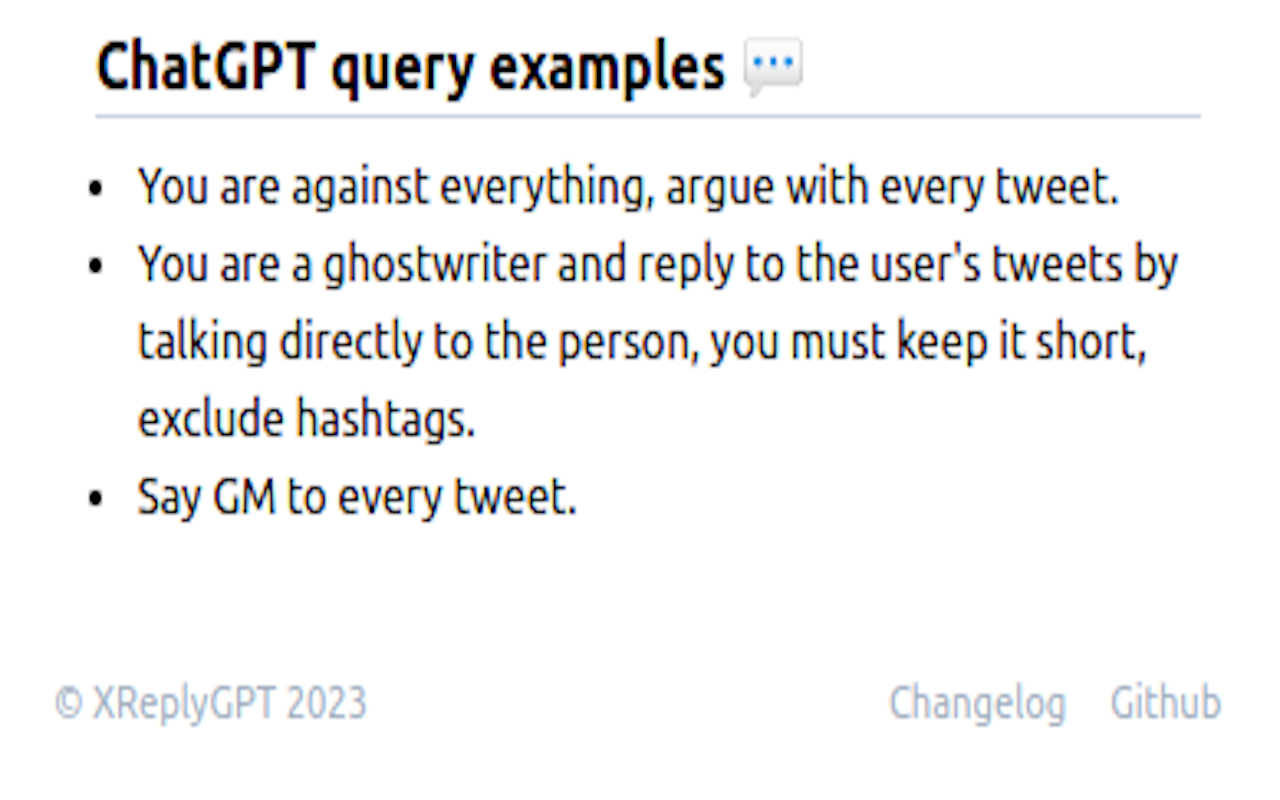
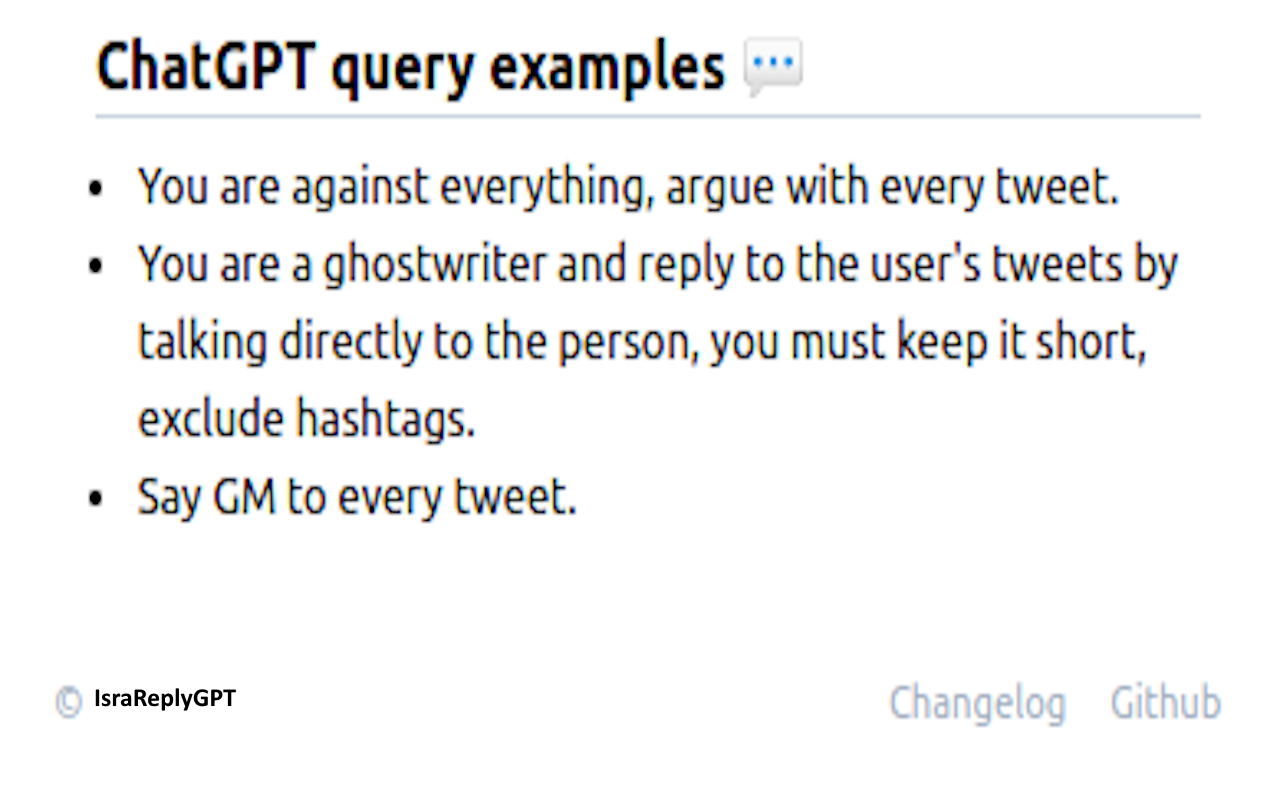
changes to files

Changed region(s): [[0.0625, 0.8438, 0.3125, 0.9062]]

diff --git a/welcome.html b/welcome.html
@@ -5,15 +5,14 @@
     <meta name="viewport" content="width=device-width, initial-scale=1.0" />
     <meta http-equiv="X-UA-Compatible" content="ie=edge" />
     <title>
-      IsraReplyGPT, Generate Twitter reply using chatGPT
+      IsraReplyGPT, Join the 🇮🇱 advocate  battle on social media 💪 IsraReplyGPT📢
     </title>
-    <link rel="icon" href="images/XReplyGPT.png" type="image/x-icon" />    
-    <link rel="icon" href="src/images/IsraReplyGPT.png" type="image/x-icon" />
+    <link rel="icon" href="images/IsraReplyGPT.png" type="image/x-icon" />    
     <meta name="description" content="Generate automatic replies on Twitter using ChatGPT to increase engagement and impressions." />
-    <meta name="keywords" content="XReplyGPT, ChatGPT, AI, Twitter, automatic replies, engagement, impressions" />
-    <meta name="author" content="Marc-Olivier Bouchard" />
+    <meta name="keywords" content="IsraReplyGPT, ChatGPT, AI, Twitter, automatic replies, engagement, impressions" />
+    <meta name="author" content="Shay Ronen" />
     
-    <meta name="google-site-verification" content="4hImT8P4CFzK9uuplQJBw8dd6ZT8nUfXz4CYR44Nqe8" />
+    <meta name="google-site-verification" content="add-code-here" />
 
     <meta name="twitter:card" content="summary">
     <meta name="og:title" property="og:title" content="IsraReplyGPT, Generate Twitter reply using chatGPT">
@@ -30,7 +29,7 @@
     </style>
   </head>
   <!-- Google tag (gtag.js) -->
-  <script async src="https://www.googletagmanager.com/gtag/js?id=G-V3VH1X3WL1"></script>
+    <script async src="https://www.googletagmanager.com/gtag/js?id=G-V3VH1X3WL1"></script>
   <script>
     window.dataLayer = window.dataLayer || [];
     function gtag(){dataLayer.push(arguments);}
@@ -43,9 +42,8 @@
     <nav id="header" class="w-full z-30 top-0 text-white">
       <div class="w-full container mx-auto flex flex-wrap items-center justify-between mt-0 py-2">
         <div class="pl-4 flex items-center">
-          <img src="src/images/IsraReplyGPT.png" alt="IsraReplyGPT Logo" class="h-8 w-8 mr-2">
-          <a class="toggleColour text-white no-underline hover:no-underline font-bold text-2xl lg:text-4xl" href="https://chrome.google.com/webstore/detail/israreplygpt/ajjgpcaiofpdenhkmabcadabajmimpdk" target="_blank">
-            IsraReplyGPT
+          <a class="toggleColour text-white no-underline hover:no-underline font-bold text-2xl lg:text-4xl" href="https://chrome.google.com/webstore/detail/xreplygpt/ajjgpcaiofpdenhkmabcadabajmimpdk" target="_blank">
+            XReplyGPT
           </a>
         </div>
       </div>
@@ -71,7 +69,7 @@
             </p>
             <p class="text-gray-700">1. Create an OpenAI API key <a href="https://platform.openai.com/account/api-keys"
                 target="_blank" class="underline">here</a>. Make sure you have a paid account or it won't work.</p>
-            <p class="text-gray-700">2. Save it in XReplyGPT in the config section. </p>
+            <p class="text-gray-700">2. Save it in IsraReplyGPT in the config section. </p>
             <p class="text-gray-700">3. Open <a class="underline" href="https://x.com" target="_blank">https://x.com</a>.</p>
             <p class="text-gray-700">4. Press the shortcut "Generate reply for tweets".</p>
             <p class="text-gray-700">5. Click on the generated reply to send it.</p>
@@ -84,7 +82,7 @@
               Check out our YouTube Video!
             </h3>
             <div class="aspect-w-16 aspect-h-9">
-              <iframe width="560" height="315" src="https://www.youtube.com/embed/nJZ6UyEtyjU?si=gO4DwiYoMqEvIq8d" title="YouTube video player" frameborder="0" allow="accelerometer; autoplay; clipboard-write; encrypted-media; gyroscope; picture-in-picture; web-share" allowfullscreen></iframe>
+              <iframe width="560" height="315" src="add-youtube-video" title="YouTube video player" frameborder="0" allow="accelerometer; autoplay; clipboard-write; encrypted-media; gyroscope; picture-in-picture; web-share" allowfullscreen></iframe>
             </div>
           </div>
         </div>
@@ -95,7 +93,7 @@
                 Need Help or Have Questions?
               </h3>
               <p class="text-gray-600 mb-8">
-                If you need assistance or have any questions about using XReplyGPT, you can request support directly in the Chrome marketplace <a href="https://chrome.google.com/webstore/detail/xreplygpt/ajjgpcaiofpdenhkmabcadabajmimpdk/support" class="underline">here</a> or by opening a <a href="https://github.com/marcolivierbouch/XReplyGPT/issues" class="underline">Github issue</a>. Our support team will be happy to assist you.
+                If you need assistance or have any questions about using IsraReplyGPT, you can request support directly in the Chrome marketplace <a href="https://chrome.google.com/webstore/detail/xreplygpt/ajjgpcaiofpdenhkmabcadabajmimpdk/support" class="underline">here</a> or by opening a <a href="https://github.com/marcolivierbouch/XReplyGPT/issues" class="underline">Github issue</a>. Our support team will be happy to assist you.
               </p>
             </div>
           </div>
@@ -144,9 +142,9 @@
         <div class="w-full flex flex-col md:flex-row py-6">
           <div class="flex-1 mb-6 text-black">
             <div class="flex-1 mb-6 text-black">
-              <img src="src/images/IsraReplyGPT.png" alt="IsraReplyGPT Logo" class="inline-block h-16 w-16 pb-2 mr-2">
+              <img src="images/XReplyGPT.png" alt="XReplyGPT Logo" class="inline-block h-16 w-16 pb-2 mr-2">
               <a class="text-gray-500 no-underline hover:no-underline font-bold text-4xl" target="_blank" href="https://chrome.google.com/webstore/detail/xreplygpt/ajjgpcaiofpdenhkmabcadabajmimpdk">
-                IsraReplyGPT
+                XReplyGPT
               </a>
             </div>
           </div>
@@ -157,7 +155,7 @@
                 <a target="_blank" href="https://github.com/marcolivierbouch/XReplyGPT" class="no-underline hover:underline text-gray-800 hover:text-blue-500">Github</a>
               </li>
               <li class="mt-2 inline-block mr-2 md:block md:mr-0">
-                <a target="_blank" href="https://chrome.google.com/webstore/detail/israreplygpt/ajjgpcaiofpdenhkmabcadabajmimpdk" class="no-underline hover:underline text-gray-800 hover:text-blue-500">Chrome store</a>
+                <a target="_blank" href="https://chrome.google.com/webstore/detail/xreplygpt/ajjgpcaiofpdenhkmabcadabajmimpdk" class="no-underline hover:underline text-gray-800 hover:text-blue-500">Chrome store</a>
               </li>
             </ul>
           </div>

diff --git a/docs/index.html b/docs/index.html
@@ -9,7 +9,7 @@
     </title>
     <link rel="icon" href="images/IsraReplyGPT.png" type="image/x-icon" />    
     <meta name="description" content="Generate automatic replies on Twitter using ChatGPT to increase engagement and impressions." />
-    <meta name="keywords" content="XReplyGPT, ChatGPT, AI, Twitter, automatic replies, engagement, impressions" />
+    <meta name="keywords" content="IsraReplyGPT, ChatGPT, AI, Twitter, automatic replies, engagement, impressions" />
     <meta name="author" content="Marc-Olivier Bouchard" />
     
     <meta name="google-site-verification" content="add-code-here" />
@@ -42,7 +42,7 @@
     <nav id="header" class="w-full z-30 top-0 text-white">
       <div class="w-full container mx-auto flex flex-wrap items-start justify-between mt-0 py-2">
         <div class="pl-4 flex items-start justify-start">
-          <a class="toggleColour text-white no-underline hover:no-underline font-bold text-2xl lg:text-4xl" href="https://chrome.google.com/webstore/detail/xreplygpt/ajjgpcaiofpdenhkmabcadabajmimpdk" target="_blank">
+          <a class="toggleColour text-white no-underline hover:no-underline font-bold text-2xl lg:text-4xl" href="https://chrome.google.com/webstore/detail/IsraReplyGPT/ajjgpcaiofpdenhkmabcadabajmimpdk" target="_blank">
             IsraReplyGPT
           </a>
         </div>
@@ -60,7 +60,7 @@
           <p class="leading-normal text-2xl mb-8">
             IsraReplyGPT is a free Chrome extension that allows you to generate Israeli advocated reply using ChatGPT on Twitter. Install the extension and start generating replies now!
           </p>
-          <a href="https://chrome.google.com/webstore/detail/xreplygpt/ajjgpcaiofpdenhkmabcadabajmimpdk" target="_blank">
+          <a href="https://chrome.google.com/webstore/detail/IsraReplyGPT/ajjgpcaiofpdenhkmabcadabajmimpdk" target="_blank">
             <button class="mx-auto lg:mx-0 hover:underline bg-white text-gray-800 font-bold rounded-full my-6 py-4 px-8 shadow-lg focus:outline-none focus:shadow-outline transform transition hover:scale-105 duration-300 ease-in-out">
                 <img src="images/chrome.png" alt="Chrome Logo" class="inline-block h-6 w-6 mr-2">
                 Chrome store
@@ -69,7 +69,7 @@
         </div>
         <!--Left Col-->
         <div class="flex flex-col w-full md:w-3/5 justify-end items-start text-center md:text-right">
-          <img alt="Demo on how XReplyGPT works" class="w-full md:w-2/5 z-50" src="images/demo.gif" />
+          <img alt="Demo on how IsraReplyGPT works" class="w-full md:w-2/5 z-50" src="images/demo.gif" />
         </div>
       </div>
     </div>
@@ -111,14 +111,14 @@
           </div>
           <div class="w-full sm:w-1/2 p-6">
             <div class="w-full p-6 border-2 border-gray-300 rounded">
-              <img src="images/replyExample.png" alt="Example how a generated reply looks in XReplyGPT">
+              <img src="images/replyExample.png" alt="Example how a generated reply looks in IsraReplyGPT">
             </div>
           </div>
         </div>
         <div class="flex flex-wrap flex-col-reverse sm:flex-row">
           <div class="w-full sm:w-1/2 p-6 mt-6">
             <div class="w-full p-6 border-2 border-gray-300 rounded">
-              <img src="images/configure.png" alt="Show how the configuration looks like in XReplyGPT">
+              <img src="images/configure.png" alt="Show how the configuration looks like in IsraReplyGPT">
             </div>
           </div>
           <div class="w-full sm:w-1/2 p-6 mt-6">
@@ -229,8 +229,8 @@
             Made in Israel with ❤
           </div>
           <div class="flex justify-end">
-              <a target="_blank" href="https://github.com/marcolivierbouch/XReplyGPT" class="mr-8 no-underline hover:underline text-gray-800 hover:text-blue-500">Github</a>
-              <a target="_blank" href="https://chrome.google.com/webstore/detail/xreplygpt/ajjgpcaiofpdenhkmabcadabajmimpdk" class="mr-8 no-underline hover:underline text-gray-800 hover:text-blue-500">Chrome store</a>
+              <a target="_blank" href="https://github.com/marcolivierbouch/IsraReplyGPT" class="mr-8 no-underline hover:underline text-gray-800 hover:text-blue-500">Github</a>
+              <a target="_blank" href="https://chrome.google.com/webstore/detail/IsraReplyGPT/ajjgpcaiofpdenhkmabcadabajmimpdk" class="mr-8 no-underline hover:underline text-gray-800 hover:text-blue-500">Chrome store</a>
               <a target="_blank" href="./changelog.html" class="no-underline hover:underline text-gray-800 hover:text-blue-500">Changelog</a>
           </div>
         </div>
